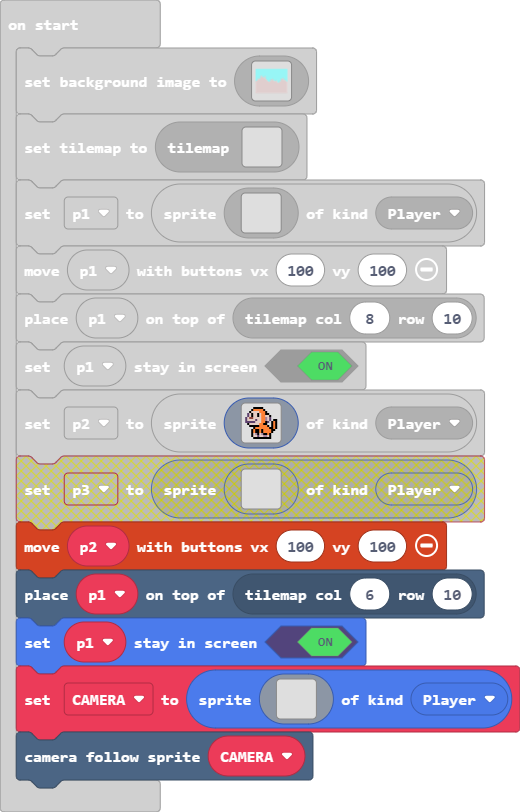
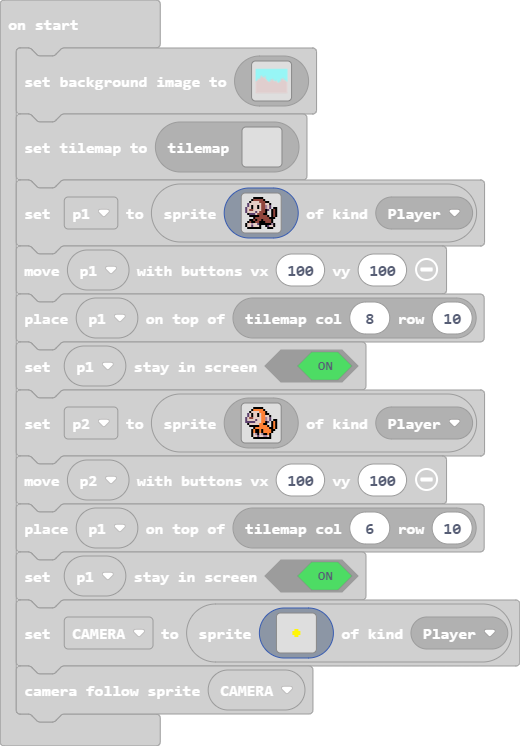
Update main.blocks, main.ts

diff --git a/main.ts b/main.ts
@@ -122,22 +122,22 @@ scene.setBackgroundImage(img`
     `)
 tiles.setCurrentTilemap(tilemap`level1`)
 let p1 = sprites.create(img`
-    . . . . . . . . . . . . . . . . 
-    . . . . . . . . . . . . . . . . 
-    . . . . . . . . . . . . . . . . 
-    . . . . . . . . . . . . . . . . 
-    . . . . . . . . . . . . . . . . 
-    . . . . . . . . . . . . . . . . 
-    . . . . . . . . . . . . . . . . 
-    . . . . . . . . . . . . . . . . 
-    . . . . . . . . . . . . . . . . 
-    . . . . . . . . . . . . . . . . 
-    . . . . . . . . . . . . . . . . 
-    . . . . . . . . . . . . . . . . 
-    . . . . . . . . . . . . . . . . 
-    . . . . . . . . . . . . . . . . 
-    . . . . . . . . . . . . . . . . 
-    . . . . . . . . . . . . . . . . 
+    . . . . f f f f f . . . . . . . 
+    . . . f e e e e e f . . . . . . 
+    . . f d d d d e e e f f . . . . 
+    . c d d d d d d e e d d f . . . 
+    . c d f d d f d e e b d c . . . 
+    c d d f d d f d e e b d c . f f 
+    c d e e d d d d e e f c . f e f 
+    c d d d d c d e e e f . . f e f 
+    . f c c c d e e e f f . . f e f 
+    . . f f f f f e e e e f . f e f 
+    . . . . f e e e e e e e f f f . 
+    . . f f e f e e f e e e e f . . 
+    . f e f f e e f f f e e e f . . 
+    f d d b d d c f f f f f f b f . 
+    f d d c d d d f . . f c d d f . 
+    . f f f f f f f . . . f f f . . 
     `, SpriteKind.Player)
 controller.moveSprite(p1, 100, 100)
 tiles.placeOnTile(p1, tiles.getTileLocation(8, 10))
@@ -170,10 +170,10 @@ let CAMERA = sprites.create(img`
     . . . . . . . . . . . . . . . . 
     . . . . . . . . . . . . . . . . 
     . . . . . . . . . . . . . . . . 
-    . . . . . . . . . . . . . . . . 
-    . . . . . . . . . . . . . . . . 
-    . . . . . . . . . . . . . . . . 
-    . . . . . . . . . . . . . . . . 
+    . . . . . . . 5 5 . . . . . . . 
+    . . . . . . 5 5 5 5 . . . . . . 
+    . . . . . . 5 5 5 5 . . . . . . 
+    . . . . . . . 5 5 . . . . . . . 
     . . . . . . . . . . . . . . . . 
     . . . . . . . . . . . . . . . . 
     . . . . . . . . . . . . . . . . 
